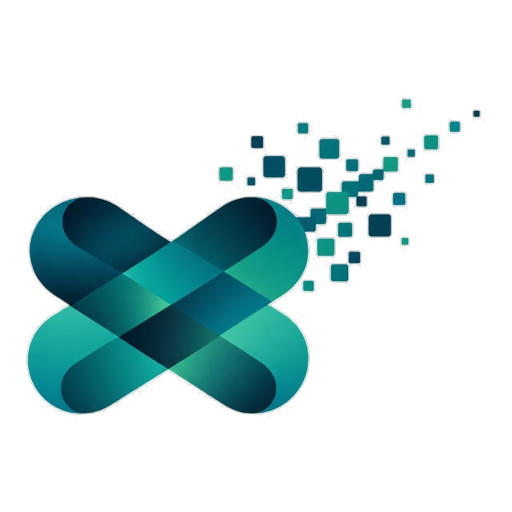
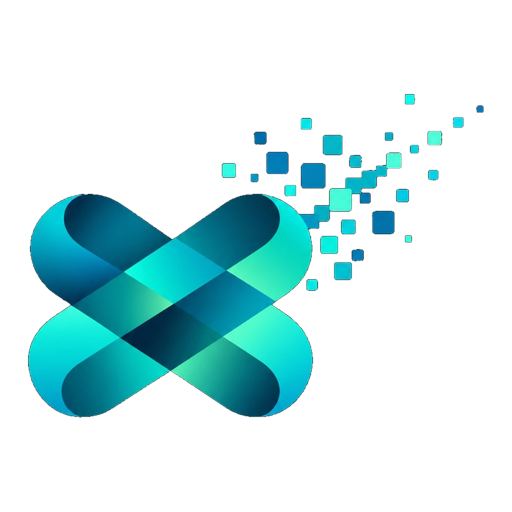
feat: atualizar logotipo Bravvi em alta resolução, sem fundo e com dimensões ampliadas e mais aparentes

Changed region(s): [[0.0312, 0.1875, 0.9688, 0.8125], [0.7812, 0.1875, 0.8125, 0.2188]]

diff --git a/demo.html b/demo.html
@@ -18,20 +18,26 @@
     window.BRAVVI_IS_DEMO = true;
     window.TEXPRO_IS_DEMO = true;
   </script>
+  <style>
+    .erp-sidebar {
+      top: 46px !important;
+      height: calc(100vh - 46px) !important;
+    }
+  </style>
 </head>
 <body style="display: flex; flex-direction: column; min-height: 100vh;">
 
   <!-- BANNER SUPERIOR DE AVISO DO TEST DRIVE INTERATIVO -->
-  <div style="background: #0f172a; color: #ffffff; padding: 10px 18px; font-size: 13px; display: flex; justify-content: space-between; align-items: center; border-bottom: 2px solid #059669; z-index: 10000; flex-wrap: wrap; gap: 10px; font-family: 'Plus Jakarta Sans', sans-serif;">
-    <div style="display: flex; align-items: center; gap: 10px;">
-      <span style="background: #059669; color: #ffffff; font-size: 10.5px; font-weight: 800; padding: 3px 8px; border-radius: 4px; letter-spacing: 0.5px;">TEST DRIVE AO VIVO</span>
-      <span style="color: #e2e8f0;">Você está navegando com <strong>dados simulados da fábrica</strong>. Sinta-se livre para testar: <strong>nenhuma alteração é salva</strong>.</span>
+  <div id="demoTopBanner" style="background: #0f172a; color: #ffffff; padding: 0 18px; height: 46px; font-size: 12.5px; display: flex; justify-content: space-between; align-items: center; border-bottom: 2px solid #059669; z-index: 10000; gap: 10px; font-family: 'Plus Jakarta Sans', sans-serif; box-sizing: border-box; flex-shrink: 0;">
+    <div style="display: flex; align-items: center; gap: 10px; overflow: hidden; text-overflow: ellipsis; white-space: nowrap;">
+      <span style="background: #059669; color: #ffffff; font-size: 10.5px; font-weight: 800; padding: 3px 8px; border-radius: 4px; letter-spacing: 0.5px; flex-shrink: 0;">TEST DRIVE AO VIVO</span>
+      <span style="color: #e2e8f0; overflow: hidden; text-overflow: ellipsis; white-space: nowrap;">Você está navegando com <strong>dados simulados da fábrica</strong>. Sinta-se livre para testar: <strong>nenhuma alteração é salva</strong>.</span>
     </div>
-    <div style="display: flex; gap: 10px; align-items: center;">
-      <button onclick="window.ERP.carregarDemonstracaoShowroom()" class="btn btn-secondary btn-sm" style="font-size: 11.5px; padding: 5px 12px; background: #1e293b; color: #f8fafc; border: 1px solid #334155; font-weight: 600; cursor: pointer; border-radius: 4px;">
+    <div style="display: flex; gap: 10px; align-items: center; flex-shrink: 0;">
+      <button onclick="window.ERP.carregarDemonstracaoShowroom()" class="btn btn-secondary btn-sm" style="font-size: 11.5px; padding: 4px 10px; background: #1e293b; color: #f8fafc; border: 1px solid #334155; font-weight: 600; cursor: pointer; border-radius: 4px;">
         🔄 Recarregar Dados de Teste
       </button>
-      <a href="https://wa.me/5511987654321?text=Ol%C3%A1!%20Fiz%20o%20test%20drive%20do%20Bravvi%20ERP%20T%C3%AAxtil%20e%20quero%20contratar%20para%20minha%20confec%C3%A7%C3%A3o." target="_blank" class="btn btn-primary btn-sm" style="font-size: 11.5px; padding: 5px 14px; background: #059669; color: #ffffff; text-decoration: none; font-weight: 700; border-radius: 4px; display: inline-flex; align-items: center; gap: 6px;">
+      <a href="https://wa.me/5511987654321?text=Ol%C3%A1!%20Fiz%20o%20test%20drive%20do%20Bravvi%20ERP%20T%C3%AAxtil%20e%20quero%20contratar%20para%20minha%20confec%C3%A7%C3%A3o." target="_blank" class="btn btn-primary btn-sm" style="font-size: 11.5px; padding: 4px 12px; background: #059669; color: #ffffff; text-decoration: none; font-weight: 700; border-radius: 4px; display: inline-flex; align-items: center; gap: 6px;">
         💬 Contratar no WhatsApp &rarr;
       </a>
     </div>
@@ -45,7 +51,7 @@
       <div class="sidebar-header">
         <div class="brand-wrapper" id="sidebarBrandWrapper" style="cursor: pointer;" onclick="window.ERP.navegarPara('empresa')" title="Configurar Dados e Logotipo da sua Confecção">
           <div class="brand-icon" id="sidebarBrandIcon" style="background: transparent; border: none; padding: 0; display: flex; align-items: center; justify-content: center;">
-            <img src="assets/bravvi-icon.png" alt="Bravvi" style="width: 32px; height: 32px; object-fit: contain;">
+            <img src="assets/bravvi-icon.png" alt="Bravvi" style="width: 40px; height: 40px; object-fit: contain;">
           </div>
           <div>
             <div class="brand-title" id="sidebarBrandTitle">BRAVVI</div>

diff --git a/app.js b/app.js
@@ -4520,8 +4520,8 @@
     return `
       <!-- Cabeçalho Empresarial -->
       <div style="border-bottom: 2px solid #0f172a; padding-bottom: 10px; margin-bottom: 12px; display: flex; justify-content: space-between; align-items: center;">
-        <div style="display: flex; align-items: center; gap: 12px;">
-          ${(emp.logoUrl || 'assets/bravvi-logo.png') ? `<img src="${emp.logoUrl || 'assets/bravvi-logo.png'}" style="max-height: 52px; max-width: 140px; object-fit: contain;" alt="Logo Bravvi">` : ''}
+        <div style="display: flex; align-items: center; gap: 14px;">
+          ${(emp.logoUrl || 'assets/bravvi-logo.png') ? `<img src="${emp.logoUrl || 'assets/bravvi-logo.png'}" style="max-height: 64px; max-width: 165px; object-fit: contain;" alt="Logo Bravvi">` : ''}
           <div>
             <h2 style="font-size: 17px; font-weight: 800; color: #0f172a; margin-bottom: 2px;">${emp.nomeFantasia || emp.razaoSocial}</h2>
             <div style="font-size: 11px; color: #475569;">
@@ -4819,8 +4819,8 @@
     return `
       <!-- Cabeçalho da Ordem de Produção -->
       <div style="border-bottom: 2px solid #0f172a; padding-bottom: 10px; margin-bottom: 12px; display: flex; justify-content: space-between; align-items: center;">
-        <div style="display: flex; align-items: center; gap: 12px;">
-          ${(emp.logoUrl || 'assets/bravvi-logo.png') ? `<img src="${emp.logoUrl || 'assets/bravvi-logo.png'}" style="max-height: 48px; max-width: 120px; object-fit: contain;" alt="Logo Bravvi">` : ''}
+        <div style="display: flex; align-items: center; gap: 14px;">
+          ${(emp.logoUrl || 'assets/bravvi-logo.png') ? `<img src="${emp.logoUrl || 'assets/bravvi-logo.png'}" style="max-height: 60px; max-width: 150px; object-fit: contain;" alt="Logo Bravvi">` : ''}
           <div>
             <h2 style="font-size: 17px; font-weight: 800; color: #0f172a; margin-bottom: 2px;">${emp.nomeFantasia || emp.razaoSocial}</h2>
             <span class="text-mono" style="color: #64748b; font-size: 11px;">ORDEM DE PRODUÇÃO: <strong>${os.id}</strong> • PEDIDO <strong>#${os.pedidoNumero}</strong></span>

diff --git a/lp.html b/lp.html
@@ -124,17 +124,13 @@
       display: flex;
       align-items: center;
       justify-content: space-between;
+      gap: 24px;
     }
 
     .brand-logo {
       display: flex;
       align-items: center;
-      gap: 10px;
-      font-family: var(--font-heading);
-      font-size: 20px;
-      font-weight: 800;
-      color: var(--text-main);
-      letter-spacing: -0.5px;
+      flex-shrink: 0;
     }
 
     .brand-icon {
@@ -153,10 +149,11 @@
     .nav-menu {
       display: flex;
       align-items: center;
-      gap: 28px;
+      gap: 22px;
       font-size: 14px;
       font-weight: 600;
       color: var(--text-body);
+      white-space: nowrap;
     }
 
     .nav-menu a:hover {
@@ -999,7 +996,7 @@
   <header class="site-header">
     <div class="container header-nav">
       <a href="/" class="brand-logo" style="display: flex; align-items: center; text-decoration: none;">
-        <img src="assets/bravvi-logo.png" alt="Bravvi ERP Têxtil" style="height: 48px; width: auto; object-fit: contain;">
+        <img src="assets/bravvi-logo.png" alt="Bravvi ERP Têxtil" style="height: 52px; width: auto; object-fit: contain;">
       </a>
 
       <nav class="nav-menu">
@@ -1516,7 +1513,7 @@
   <!-- Footer -->
   <footer class="site-footer">
     <div class="container" style="display: flex; flex-direction: column; align-items: center; gap: 14px; text-align: center;">
-      <img src="assets/bravvi-logo-white.png" alt="Bravvi ERP Têxtil" style="height: 48px; width: auto; object-fit: contain;">
+      <img src="assets/bravvi-logo-white.png" alt="Bravvi ERP Têxtil" style="height: 64px; width: auto; object-fit: contain;">
       <p>© 2026 Bravvi ERP Têxtil. Todos os direitos reservados. Feito sob medida para confecções e estamparias brasileiras.</p>
     </div>
   </footer>

diff --git a/vendas.html b/vendas.html
@@ -124,17 +124,13 @@
       display: flex;
       align-items: center;
       justify-content: space-between;
+      gap: 24px;
     }
 
     .brand-logo {
       display: flex;
       align-items: center;
-      gap: 10px;
-      font-family: var(--font-heading);
-      font-size: 20px;
-      font-weight: 800;
-      color: var(--text-main);
-      letter-spacing: -0.5px;
+      flex-shrink: 0;
     }
 
     .brand-icon {
@@ -153,10 +149,11 @@
     .nav-menu {
       display: flex;
       align-items: center;
-      gap: 28px;
+      gap: 22px;
       font-size: 14px;
       font-weight: 600;
       color: var(--text-body);
+      white-space: nowrap;
     }
 
     .nav-menu a:hover {
@@ -999,7 +996,7 @@
   <header class="site-header">
     <div class="container header-nav">
       <a href="/" class="brand-logo" style="display: flex; align-items: center; text-decoration: none;">
-        <img src="assets/bravvi-logo.png" alt="Bravvi ERP Têxtil" style="height: 48px; width: auto; object-fit: contain;">
+        <img src="assets/bravvi-logo.png" alt="Bravvi ERP Têxtil" style="height: 52px; width: auto; object-fit: contain;">
       </a>
 
       <nav class="nav-menu">
@@ -1516,7 +1513,7 @@
   <!-- Footer -->
   <footer class="site-footer">
     <div class="container" style="display: flex; flex-direction: column; align-items: center; gap: 14px; text-align: center;">
-      <img src="assets/bravvi-logo-white.png" alt="Bravvi ERP Têxtil" style="height: 48px; width: auto; object-fit: contain;">
+      <img src="assets/bravvi-logo-white.png" alt="Bravvi ERP Têxtil" style="height: 64px; width: auto; object-fit: contain;">
       <p>© 2026 Bravvi ERP Têxtil. Todos os direitos reservados. Feito sob medida para confecções e estamparias brasileiras.</p>
     </div>
   </footer>

diff --git a/proposta-comercial.html b/proposta-comercial.html
@@ -107,7 +107,7 @@
     <!-- Barra Superior de Ações -->
     <div style="display: flex; justify-content: space-between; align-items: center; border-bottom: 1px solid #cbd5e1; padding-bottom: 16px; margin-bottom: 24px;" class="no-print">
       <div style="display: flex; align-items: center; gap: 14px;">
-        <img src="assets/bravvi-logo.png" alt="Bravvi ERP Têxtil" style="height: 44px; width: auto; object-fit: contain;">
+        <img src="assets/bravvi-logo.png" alt="Bravvi ERP Têxtil" style="height: 56px; width: auto; object-fit: contain;">
         <span class="status-pill status-gray text-mono" style="font-size: 10px;">PROPOSTA COMERCIAL</span>
       </div>
       <div style="display: flex; gap: 10px;">
@@ -133,7 +133,7 @@
           A solução definitiva de gestão para fábricas de uniformes profissionais, escolares, operacionais e hospitalares. Do primeiro orçamento no WhatsApp à entrega final no chão de fábrica.
         </p>
       </div>
-      <img src="assets/bravvi-symbol.png" alt="Bravvi" style="height: 68px; width: auto; object-fit: contain;">
+      <img src="assets/bravvi-symbol.png" alt="Bravvi" style="height: 96px; width: auto; object-fit: contain;">
     </div>
 
     <!-- Os 5 Maiores Problemas Resolvidos -->

diff --git a/style.css b/style.css
@@ -149,37 +149,39 @@ body {
 .brand-wrapper {
   display: flex;
   align-items: center;
-  gap: 10px;
+  gap: 12px;
 }
 
 .brand-icon {
-  width: 28px;
-  height: 28px;
-  background-color: #0f172a;
+  width: 40px;
+  height: 40px;
+  background-color: transparent;
   color: #ffffff;
   border-radius: var(--radius-sm);
   display: flex;
   align-items: center;
   justify-content: center;
   font-weight: 800;
-  font-size: 13px;
+  font-size: 15px;
   letter-spacing: -0.5px;
+  flex-shrink: 0;
 }
 
 .brand-title {
-  font-size: 14px;
-  font-weight: 800;
-  color: var(--text-primary);
-  letter-spacing: 0.5px;
+  font-size: 18px;
+  font-weight: 900;
+  color: #032b35;
+  letter-spacing: 1px;
+  line-height: 1.1;
 }
 
 .brand-subtitle {
-  font-size: 9px;
-  color: var(--text-gray-500);
+  font-size: 10.5px;
+  color: #0d9488;
   text-transform: uppercase;
   font-family: var(--font-mono);
-  font-weight: 600;
-  letter-spacing: 0.8px;
+  font-weight: 800;
+  letter-spacing: 1.5px;
 }
 
 /* Menu de Navegação */

diff --git a/index.html b/index.html
@@ -29,7 +29,7 @@
       <div class="sidebar-header">
         <div class="brand-wrapper" id="sidebarBrandWrapper" style="cursor: pointer;" onclick="window.ERP.navegarPara('empresa')" title="Configurar Dados e Logotipo da sua Confecção">
           <div class="brand-icon" id="sidebarBrandIcon" style="background: transparent; border: none; padding: 0; display: flex; align-items: center; justify-content: center;">
-            <img src="assets/bravvi-icon.png" alt="Bravvi" style="width: 32px; height: 32px; object-fit: contain;">
+            <img src="assets/bravvi-icon.png" alt="Bravvi" style="width: 40px; height: 40px; object-fit: contain;">
           </div>
           <div>
             <div class="brand-title" id="sidebarBrandTitle">BRAVVI</div>
